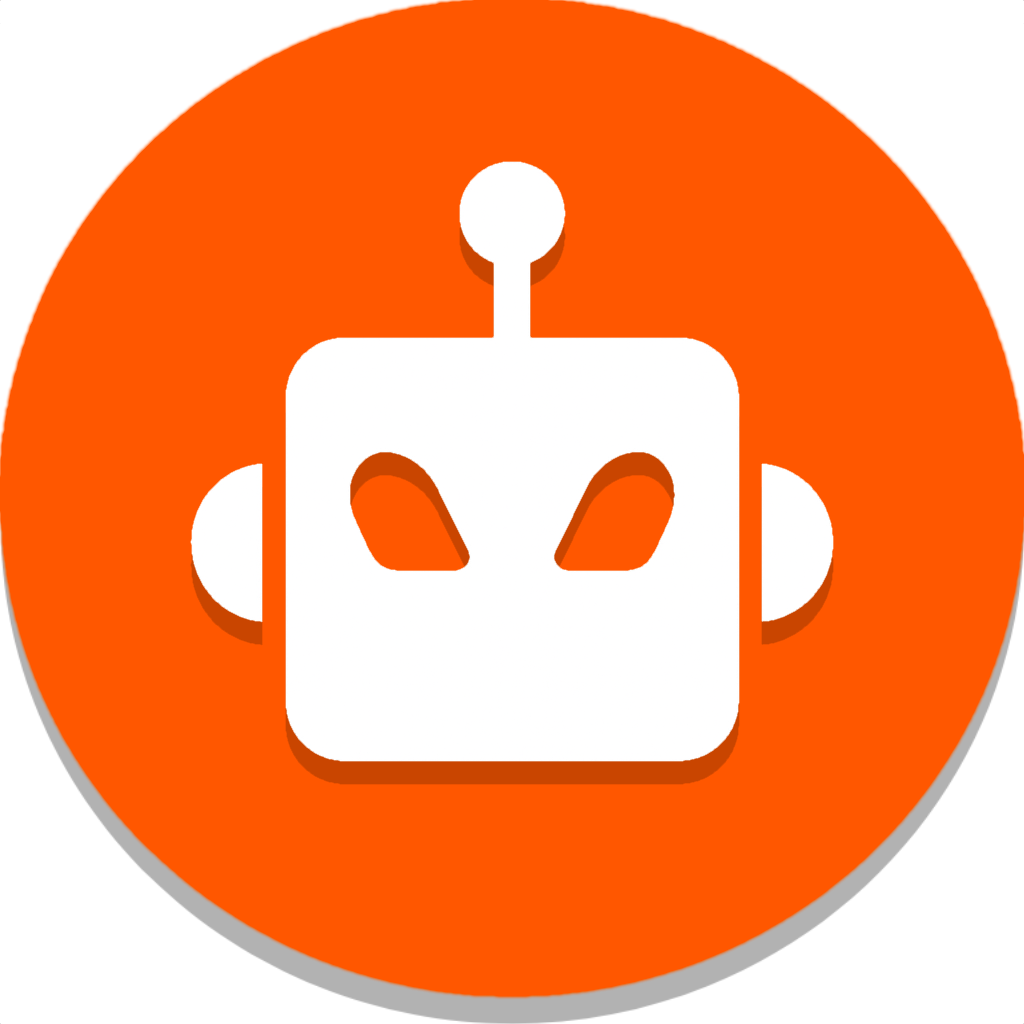
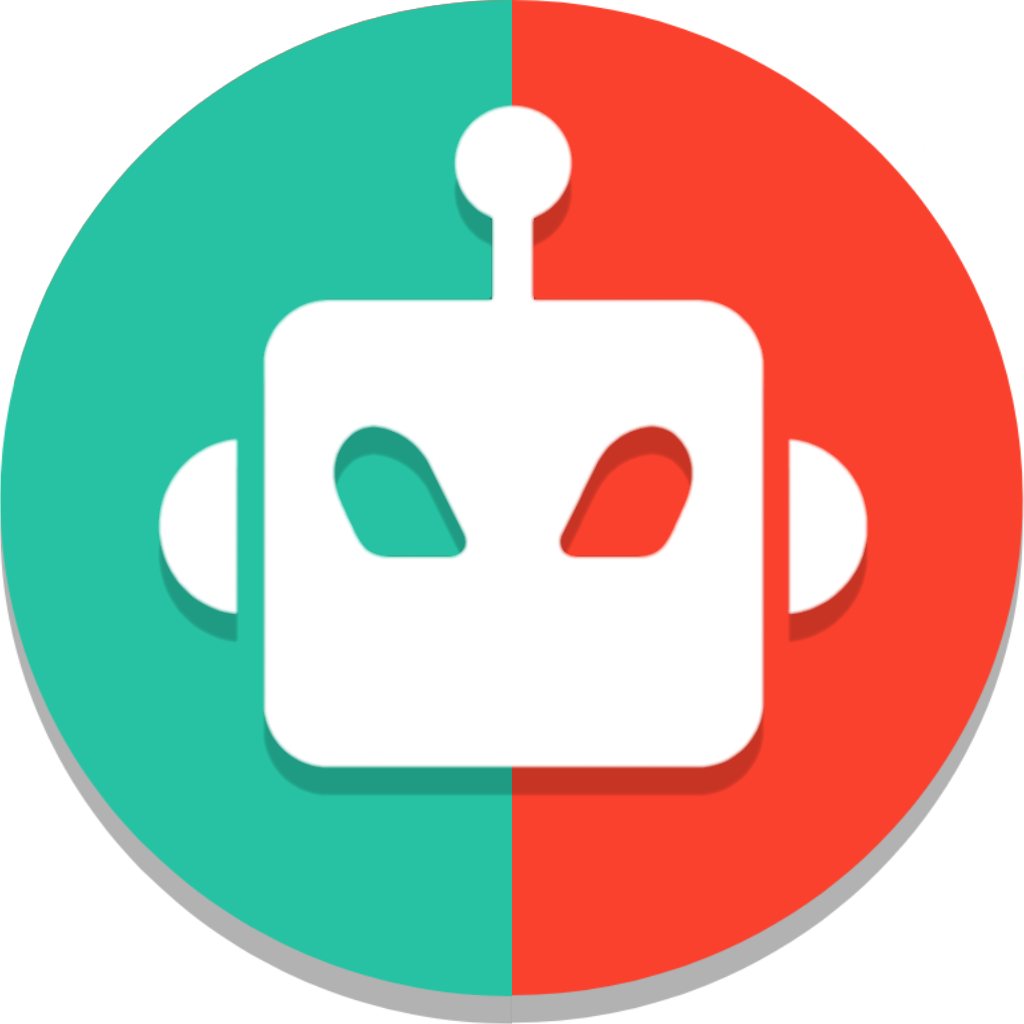
updated colors

diff --git a/src/main.tsx b/src/main.tsx
@@ -42,6 +42,7 @@ const TITLE_ME_VOTE_REGEX = /^\[me\b.*\]/i;
 const ELO_VOTE_REGEX = /!elo\s+(-?\d+)\b/i;
 const ELO_REGEX = /(\d+) Elo/;
 const ANNOTATION_REGEX = /Annotated by (u\/[A-Za-z0-9_-]+)/;
+const IMPLIED_MESSAGE_REGEX = /^\*.*\*$/;
 
 const REQUESTING_ANNOTATION_FLAIR_ID = "a79dfdbc-4b09-11f0-a6f6-e2bae3f86d0a",
   ALREADY_ANNOTATED_FLAIR_ID = "c2d007e7-ca1c-11eb-bc34-0e56c289897d",
@@ -74,6 +75,24 @@ const BANNED_VOTE_VALUES = [
   109, 1738, 911, 2001, 1337, 8008, 80085, 58008, 9000, 9001, 12345, 123456,
   31415, 1984, 1945, 1939, 1914,
 ];
+
+const CLASSIFICATION_ACCURACY_INFO: Record<
+  CountedClassification,
+  { accuracy: number; radius: number }
+> = {
+  [Classification.SUPERBRILLIANT]: { accuracy: 100, radius: 0 },
+  [Classification.BRILLIANT]: { accuracy: 100, radius: 0 },
+  [Classification.GREAT]: { accuracy: 100, radius: 0 },
+  [Classification.BEST]: { accuracy: 100, radius: 0 },
+  [Classification.EXCELLENT]: { accuracy: 99, radius: 1 },
+  [Classification.GOOD]: { accuracy: 96.5, radius: 1.5 },
+  [Classification.BOOK]: { accuracy: 100, radius: 2 },
+  [Classification.INACCURACY]: { accuracy: -7.5, radius: 2.5 },
+  [Classification.MISTAKE]: { accuracy: -15, radius: 5 },
+  [Classification.MISS]: { accuracy: -10, radius: 3 },
+  [Classification.BLUNDER]: { accuracy: -60, radius: 40 },
+  [Classification.MEGABLUNDER]: { accuracy: -100, radius: 0 },
+};
 
 const GITHUB_DISPATCH_URL =
   "https://api.github.com/repos/pjpuzzler/textingtheory-renderer/actions/workflows/render-and-upload.yml/dispatches";
@@ -166,12 +185,16 @@ function getGeminiConfig() {
         nullable: true,
         properties: {
           left: {
-            type: Type.NUMBER,
+            type: Type.INTEGER,
+            minimum: 100,
+            maximum: 3000,
             description: `Estimated Elo (integer) for the "left" player.`,
             nullable: true,
           },
           right: {
-            type: Type.NUMBER,
+            type: Type.INTEGER,
+            minimum: 100,
+            maximum: 3000,
             description: `Estimated Elo (integer) for the "right" player.`,
             nullable: true,
           },
@@ -1635,33 +1658,28 @@ async function handleUserEloVote(
     );
 }
 
+function getClassificationAccuracy(
+  classification: CountedClassification
+): number {
+  const { accuracy, radius } = CLASSIFICATION_ACCURACY_INFO[classification];
+  const jitter = (Math.random() * 2 - 1) * radius;
+  return Math.min(100, accuracy + jitter);
+}
+
 function getAccuracyString(
   messages: Message[],
   side: "left" | "right"
 ): string {
-  const scores: Record<CountedClassification, number> = {
-    [Classification.SUPERBRILLIANT]: 100,
-    [Classification.BRILLIANT]: 100,
-    [Classification.GREAT]: 100,
-    [Classification.BEST]: 100,
-    [Classification.EXCELLENT]: 99,
-    [Classification.GOOD]: 96.5,
-    [Classification.BOOK]: 100,
-    [Classification.INACCURACY]: -7.5,
-    [Classification.MISTAKE]: -15,
-    [Classification.MISS]: -10,
-    [Classification.BLUNDER]: -60,
-    [Classification.MEGABLUNDER]: -100,
-  };
-
   let totalScore = 0;
   let classifiedMovesCount = 0;
 
   const playerMessages = messages.filter((message) => message.side === side);
 
   for (const message of playerMessages) {
-    if (message.classification in scores) {
-      totalScore += scores[message.classification as CountedClassification];
+    if (message.classification in CLASSIFICATION_ACCURACY_INFO) {
+      totalScore += getClassificationAccuracy(
+        message.classification as CountedClassification
+      );
       classifiedMovesCount++;
     }
   }
@@ -1697,8 +1715,10 @@ function buildReviewComment(
   let hasLeft = false,
     hasRight = false;
   analysis.messages.forEach((msg: Message) => {
-    if (msg.side === "left") hasLeft = true;
-    else if (msg.side === "right") hasRight = true;
+    if (msg.side === "left" && !IMPLIED_MESSAGE_REGEX.test(msg.content))
+      hasLeft = true;
+    else if (msg.side === "right" && !IMPLIED_MESSAGE_REGEX.test(msg.content))
+      hasRight = true;
 
     if (msg.classification in counts) {
       let countedClassification = msg.classification as CountedClassification;
@@ -1783,8 +1803,8 @@ function buildReviewComment(
     .paragraph((p) =>
       p
         .text({
-          text: "This bot is designed for entertainment only, its reviews should not be taken seriously | ",
-          formatting: [[32, 0, 89]],
+          text: "This bot is designed for entertainment, its reviews should not be taken seriously. ",
+          formatting: [[32, 0, 83]],
         })
         .link({
           text: "about",

diff --git a/src/color.ts b/src/color.ts
@@ -30,10 +30,10 @@ const ELO_COLOR_STOPS_DATA: { elo: number; name: string; hex: string }[] = [
   { elo: 600, name: "mistake", hex: "#ffa459" },
   { elo: 800, name: "inaccuracy", hex: "#f7c631" },
   { elo: 1000, name: "good", hex: "#95b776" },
-  { elo: 1200, name: "excellent", hex: "#81b64c" },
+  { elo: 1300, name: "excellent", hex: "#81b64c" },
   // { elo: 1500, name: "best", hex: "#81b64c" },
-  { elo: 1500, name: "great", hex: "#749bbf" },
-  { elo: 1800, name: "brilliant", hex: "#26c2a3" },
+  { elo: 1600, name: "great", hex: "#749bbf" },
+  { elo: 1900, name: "brilliant", hex: "#26c2a3" },
   { elo: 2200, name: "superbrilliant", hex: "#e273e7" },
 ];
 
